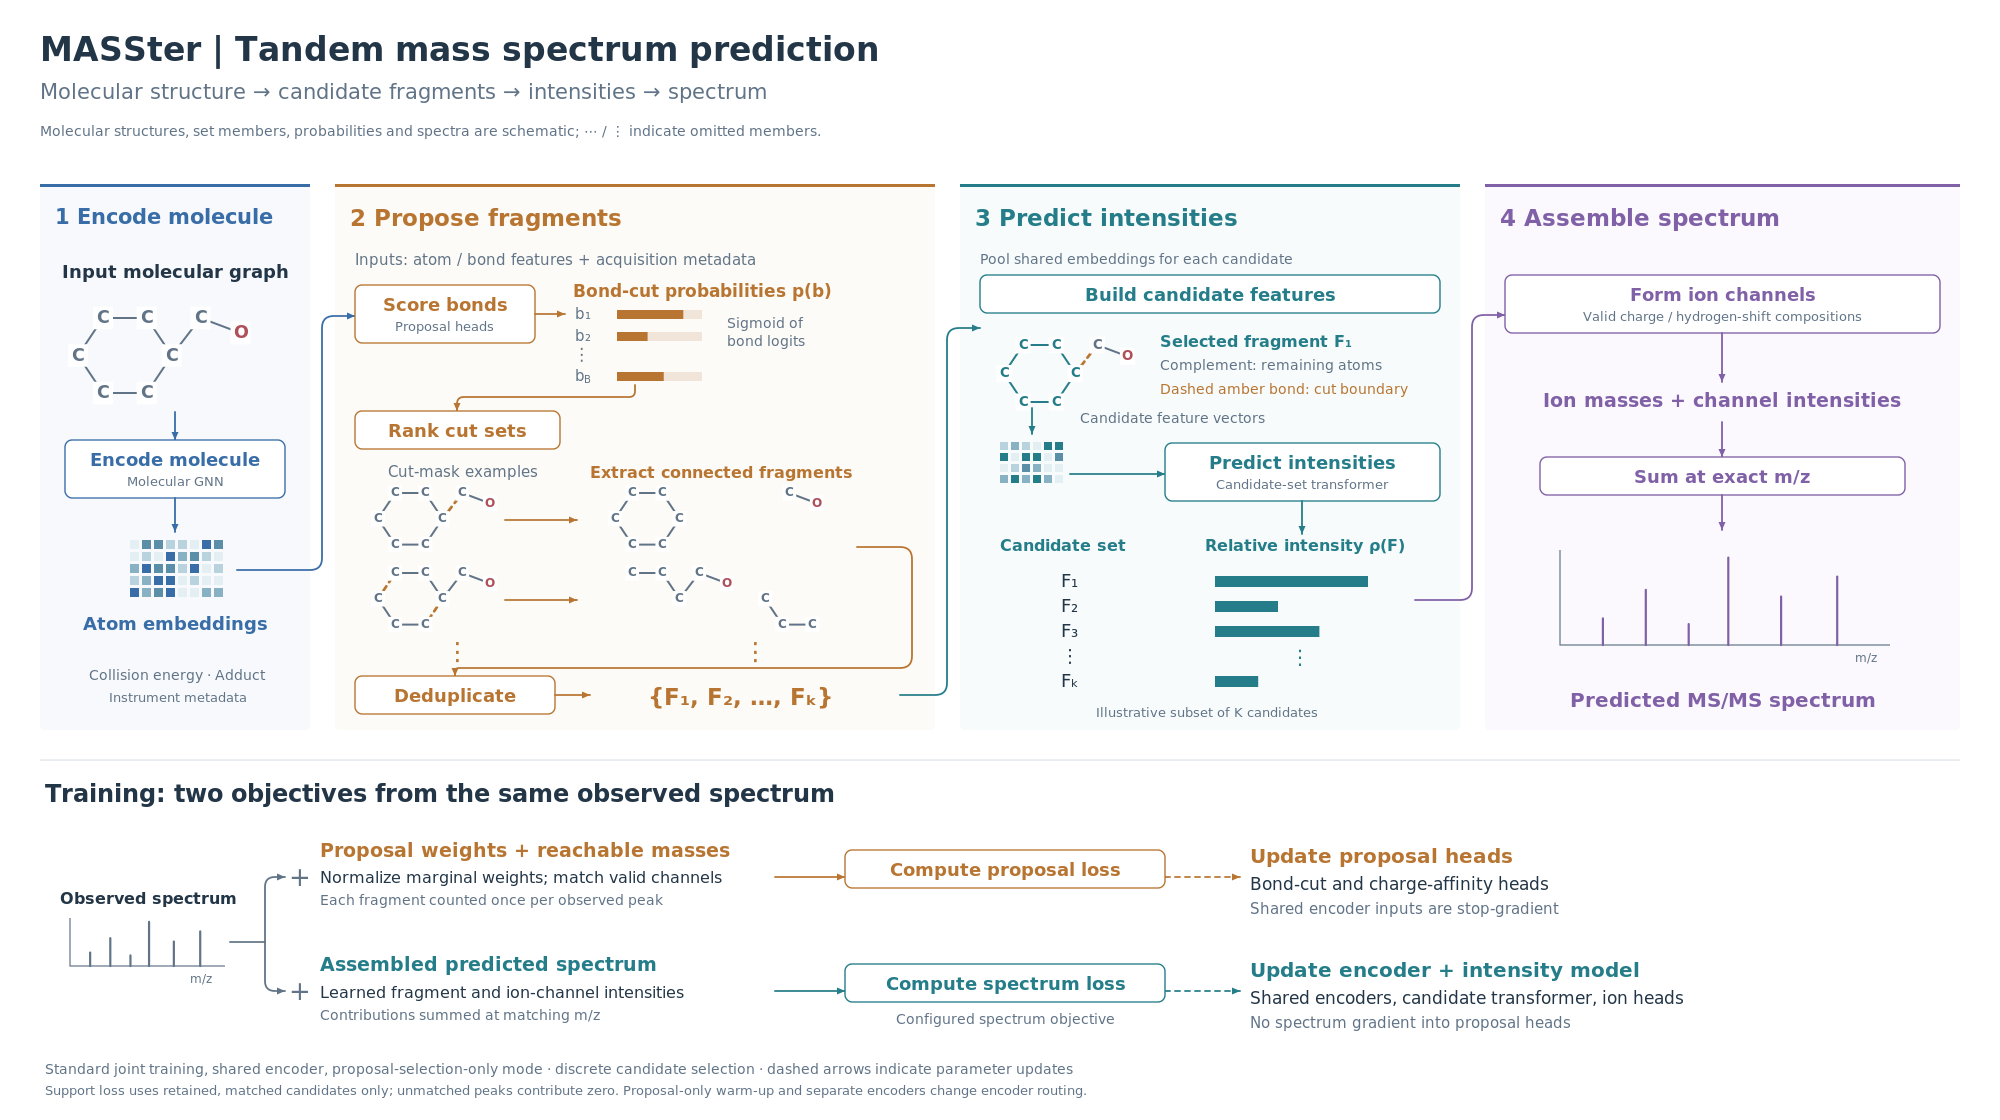
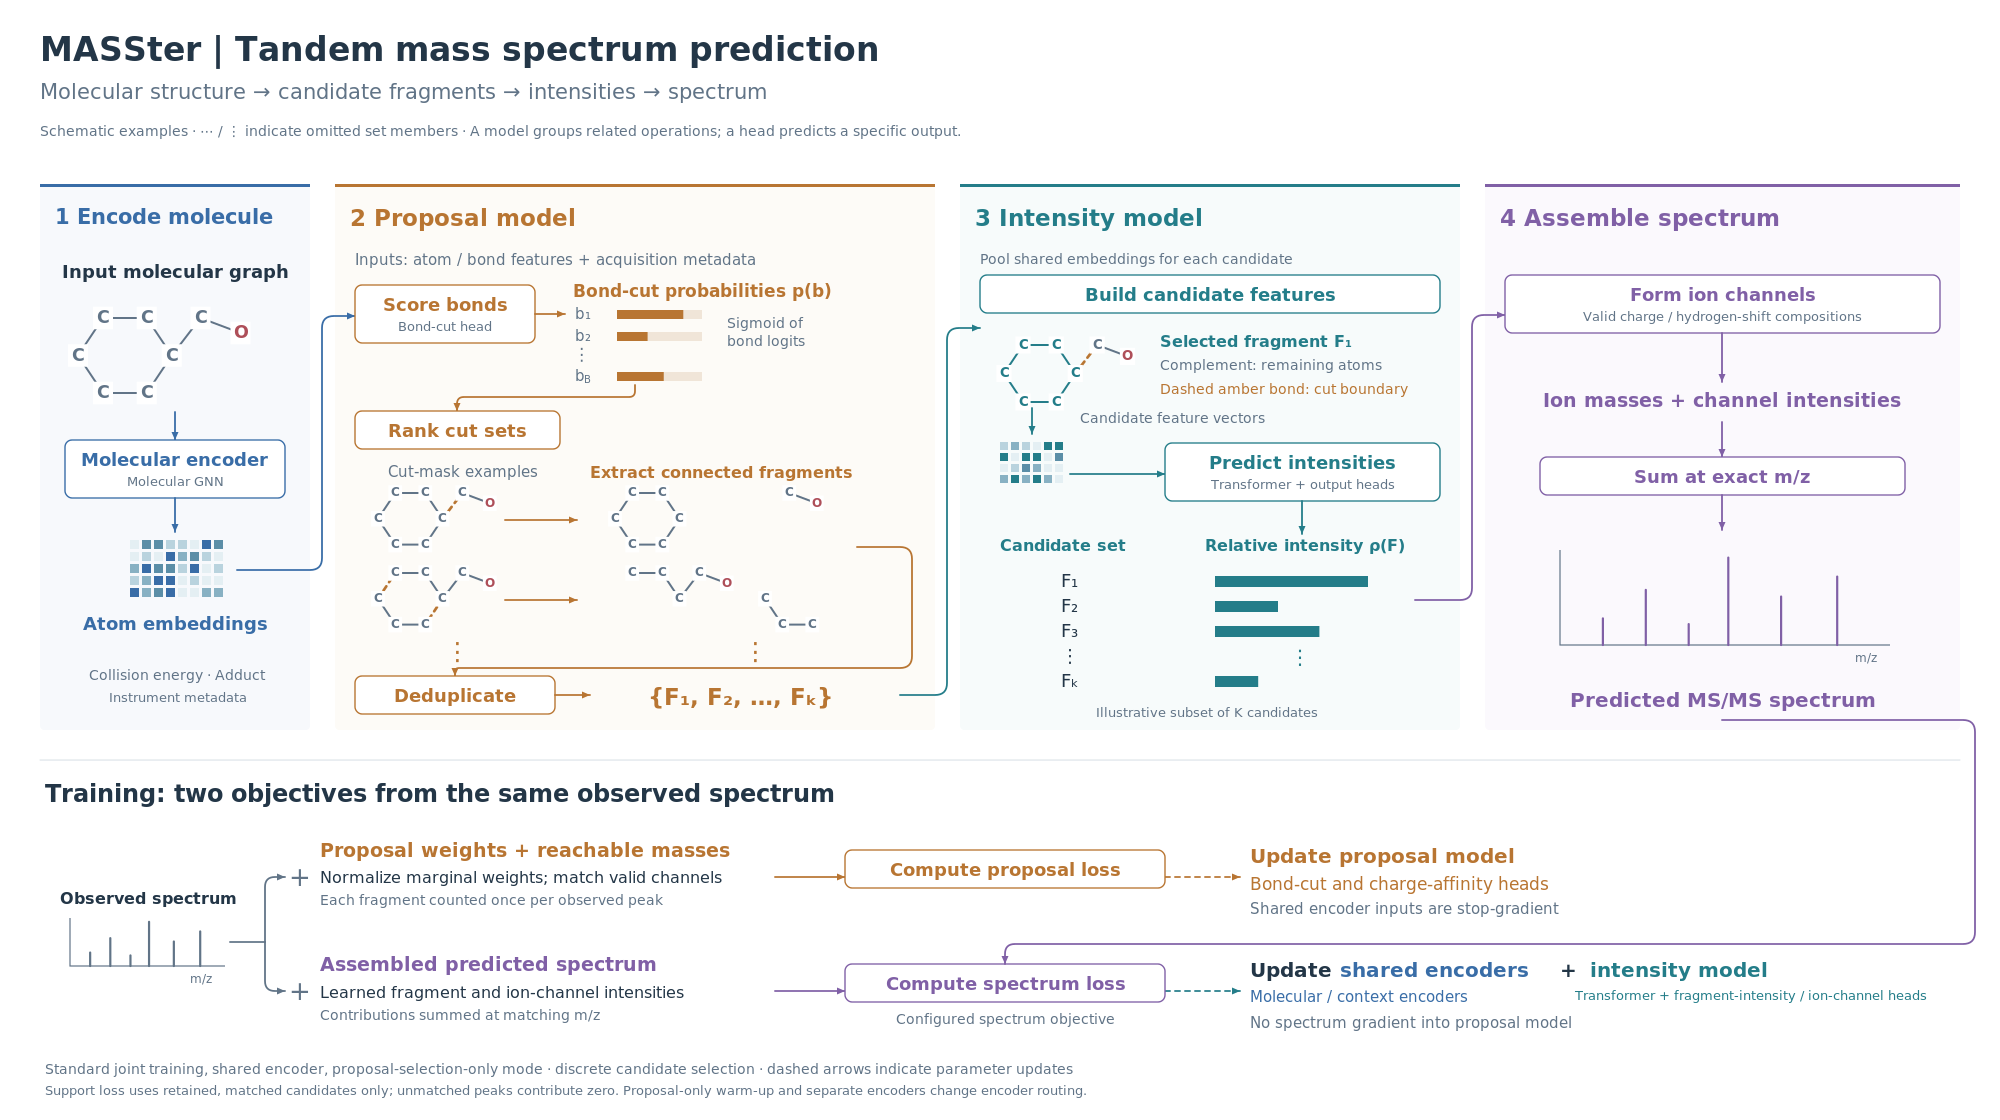
update figures

diff --git a/docs/workstreams/masster_core.md b/docs/workstreams/masster_core.md
@@ -8,7 +8,7 @@
 
 - **Method description (2026-10-19):** the [training section](../reference/masster_method.md#training) defines the disjoint proposal and spectrum objectives, the support-loss equation, and encoder gradient routing, including the staged-training exception. Checked against the current implementation; documentation only.
 
-- **Figures and loss correction (2026-10-19):** the three current pages of the [drawing source](../figures/masster_figures.drawio) and their plain SVG/PNG exports are synchronized. ESI/EI overviews use lighter step colors, consistent molecular examples, highlighted cut boundaries, candidate feature matrices, set ellipses, and compact verb-led operations. The separate training-objectives page separates observed peaks + normalized marginal proposal weights + reachable channel masses from observed peaks + assembled spectrum. Update targets and the standard shared-encoder stop-gradient convention are explicit; warm-up/separate-encoder exceptions are noted. Loss inputs checked against `_proposal_coverage_loss`, its call site, and proposal detachment in the model. The [architecture](../figures/masster_architecture.svg), [decoupled design](../figures/masster_decoupled_design.svg), and [EI architecture](../figures/masster_ei_architecture.svg) were generated from the same vector geometry as the drawing source, rasterized locally with CairoSVG, and visually reviewed. XML, label-width, and plain-SVG checks pass; no browser export is pending. The current pages hide the loss formulas while retaining loss panels, labels, and arrows. The overview pages retain one shared observed spectrum; bond labels use b₁, b₂, an ellipsis, and a subscript B for the final bond. Embedding-cell shades remain randomized and spectrum axes square. The training-objectives page retains one observed-spectrum object shared by both losses. Pages 4–6 preserve the pre-redesign versions from HEAD, labelled “previous version”; current figures remain on pages 1–3.
+- **Figures and loss correction (2026-10-19):** the three current pages of the [drawing source](../figures/masster_figures.drawio) and their plain SVG/PNG exports are synchronized. ESI/EI overviews use lighter step colors, consistent molecular examples, highlighted cut boundaries, candidate feature matrices, set ellipses, and compact verb-led operations. The separate training-objectives page separates observed peaks + normalized marginal proposal weights + reachable channel masses from observed peaks + assembled spectrum. Update targets and the standard shared-encoder stop-gradient convention are explicit; warm-up/separate-encoder exceptions are noted. Loss inputs checked against `_proposal_coverage_loss`, its call site, and proposal detachment in the model. The [architecture](../figures/masster_architecture.svg), [decoupled design](../figures/masster_decoupled_design.svg), and [EI architecture](../figures/masster_ei_architecture.svg) were generated from the same vector geometry as the drawing source, rasterized locally with CairoSVG, and visually reviewed. XML, label-width, and plain-SVG checks pass; no browser export is pending. The current pages hide the loss formulas while retaining loss panels, labels, and arrows; the spectrum-loss block uses purple. A solid purple arrow connects step 4’s assembled spectrum directly to that loss in each overview (the nominal output for EI), while dashed arrows indicate upstream parameter updates. Loss rows are ordered proposal first, predicted-spectrum second. Terminology is unified: shared encoders (blue), proposal model (amber), and intensity model (teal); heads are specific output predictors within a model. Update labels color each component separately. The intensity model contains the candidate transformer, fragment-intensity head, and ion-channel head; assembly/loss stay purple. The overview pages retain one shared observed spectrum; bond labels use b₁, b₂, an ellipsis, and a subscript B for the final bond. Embedding-cell shades remain randomized and spectrum axes square. The training-objectives page retains one observed-spectrum object shared by both losses. Pages 4–6 preserve the pre-redesign versions from HEAD, labelled “previous version”; current figures remain on pages 1–3.
 
 - **Current speed audit:** [opportunities and limits](../findings/masster/masster_code_audits.md#speed-audit-of-the-current-path-2026-10-16): `i1`/`i4` already use the main speed switches. First candidates are rewire host round-trips and repeated product-pool reductions; base attention packing and loss padding need GPU profiling. 49 focused CPU tests pass; no current GPU speedup measured.
 

diff --git a/docs/reference/masster_method.md b/docs/reference/masster_method.md
@@ -22,6 +22,15 @@ candidate selection; the intensity model estimates the contributions of the sele
 candidates. These distributions have distinct roles and need not assign the same
 relative weights to fragments.
 
+In the figures, **shared encoders** comprise the molecular GNN and enabled context
+encoder. The **proposal model** groups proposal scoring and candidate construction;
+its learned predictors include the bond-cut and charge-affinity heads. The
+**intensity model** comprises the candidate transformer and its fragment-intensity
+and ion-channel output heads. A **head** predicts a specific output within a model.
+Spectrum assembly converts those outputs into peaks. These are conceptual figure
+labels; the implementation packages the intensity component in
+`CandidateIntensityTransformerHead`.
+
 The description below concerns the core bond-cut proposal and its unique-fragment,
 normalized-output formulation. Optional mechanisms and configuration-dependent
 variants are distinguished explicitly. It describes model operations rather than
